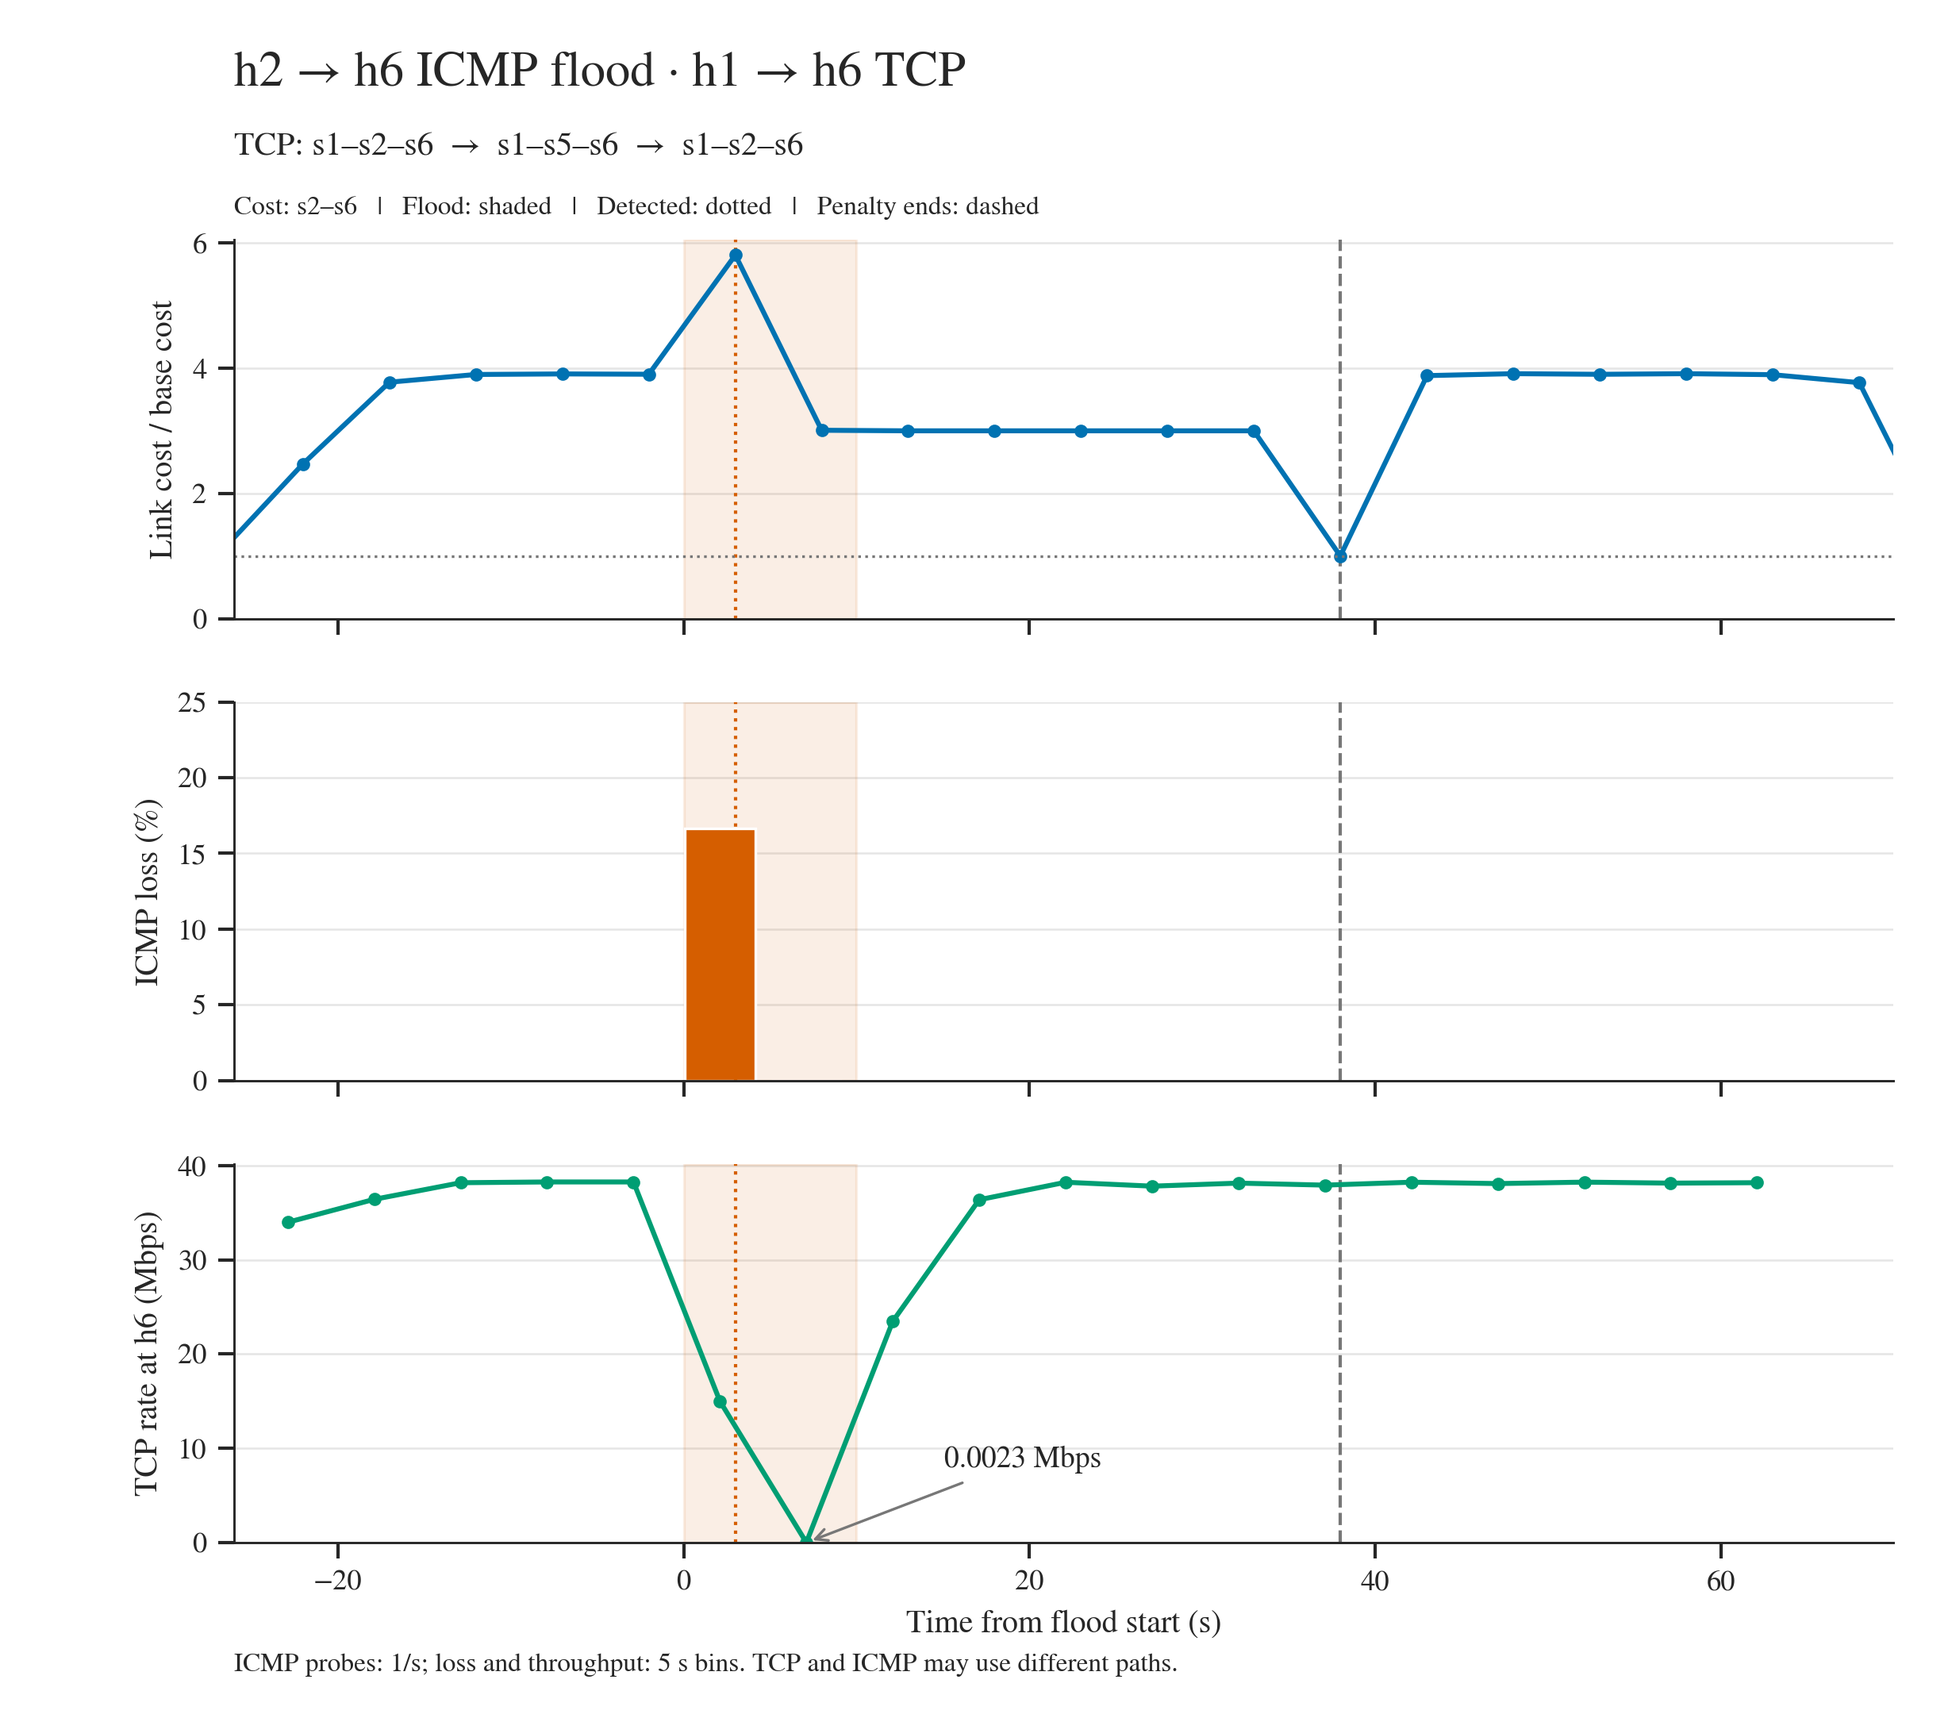
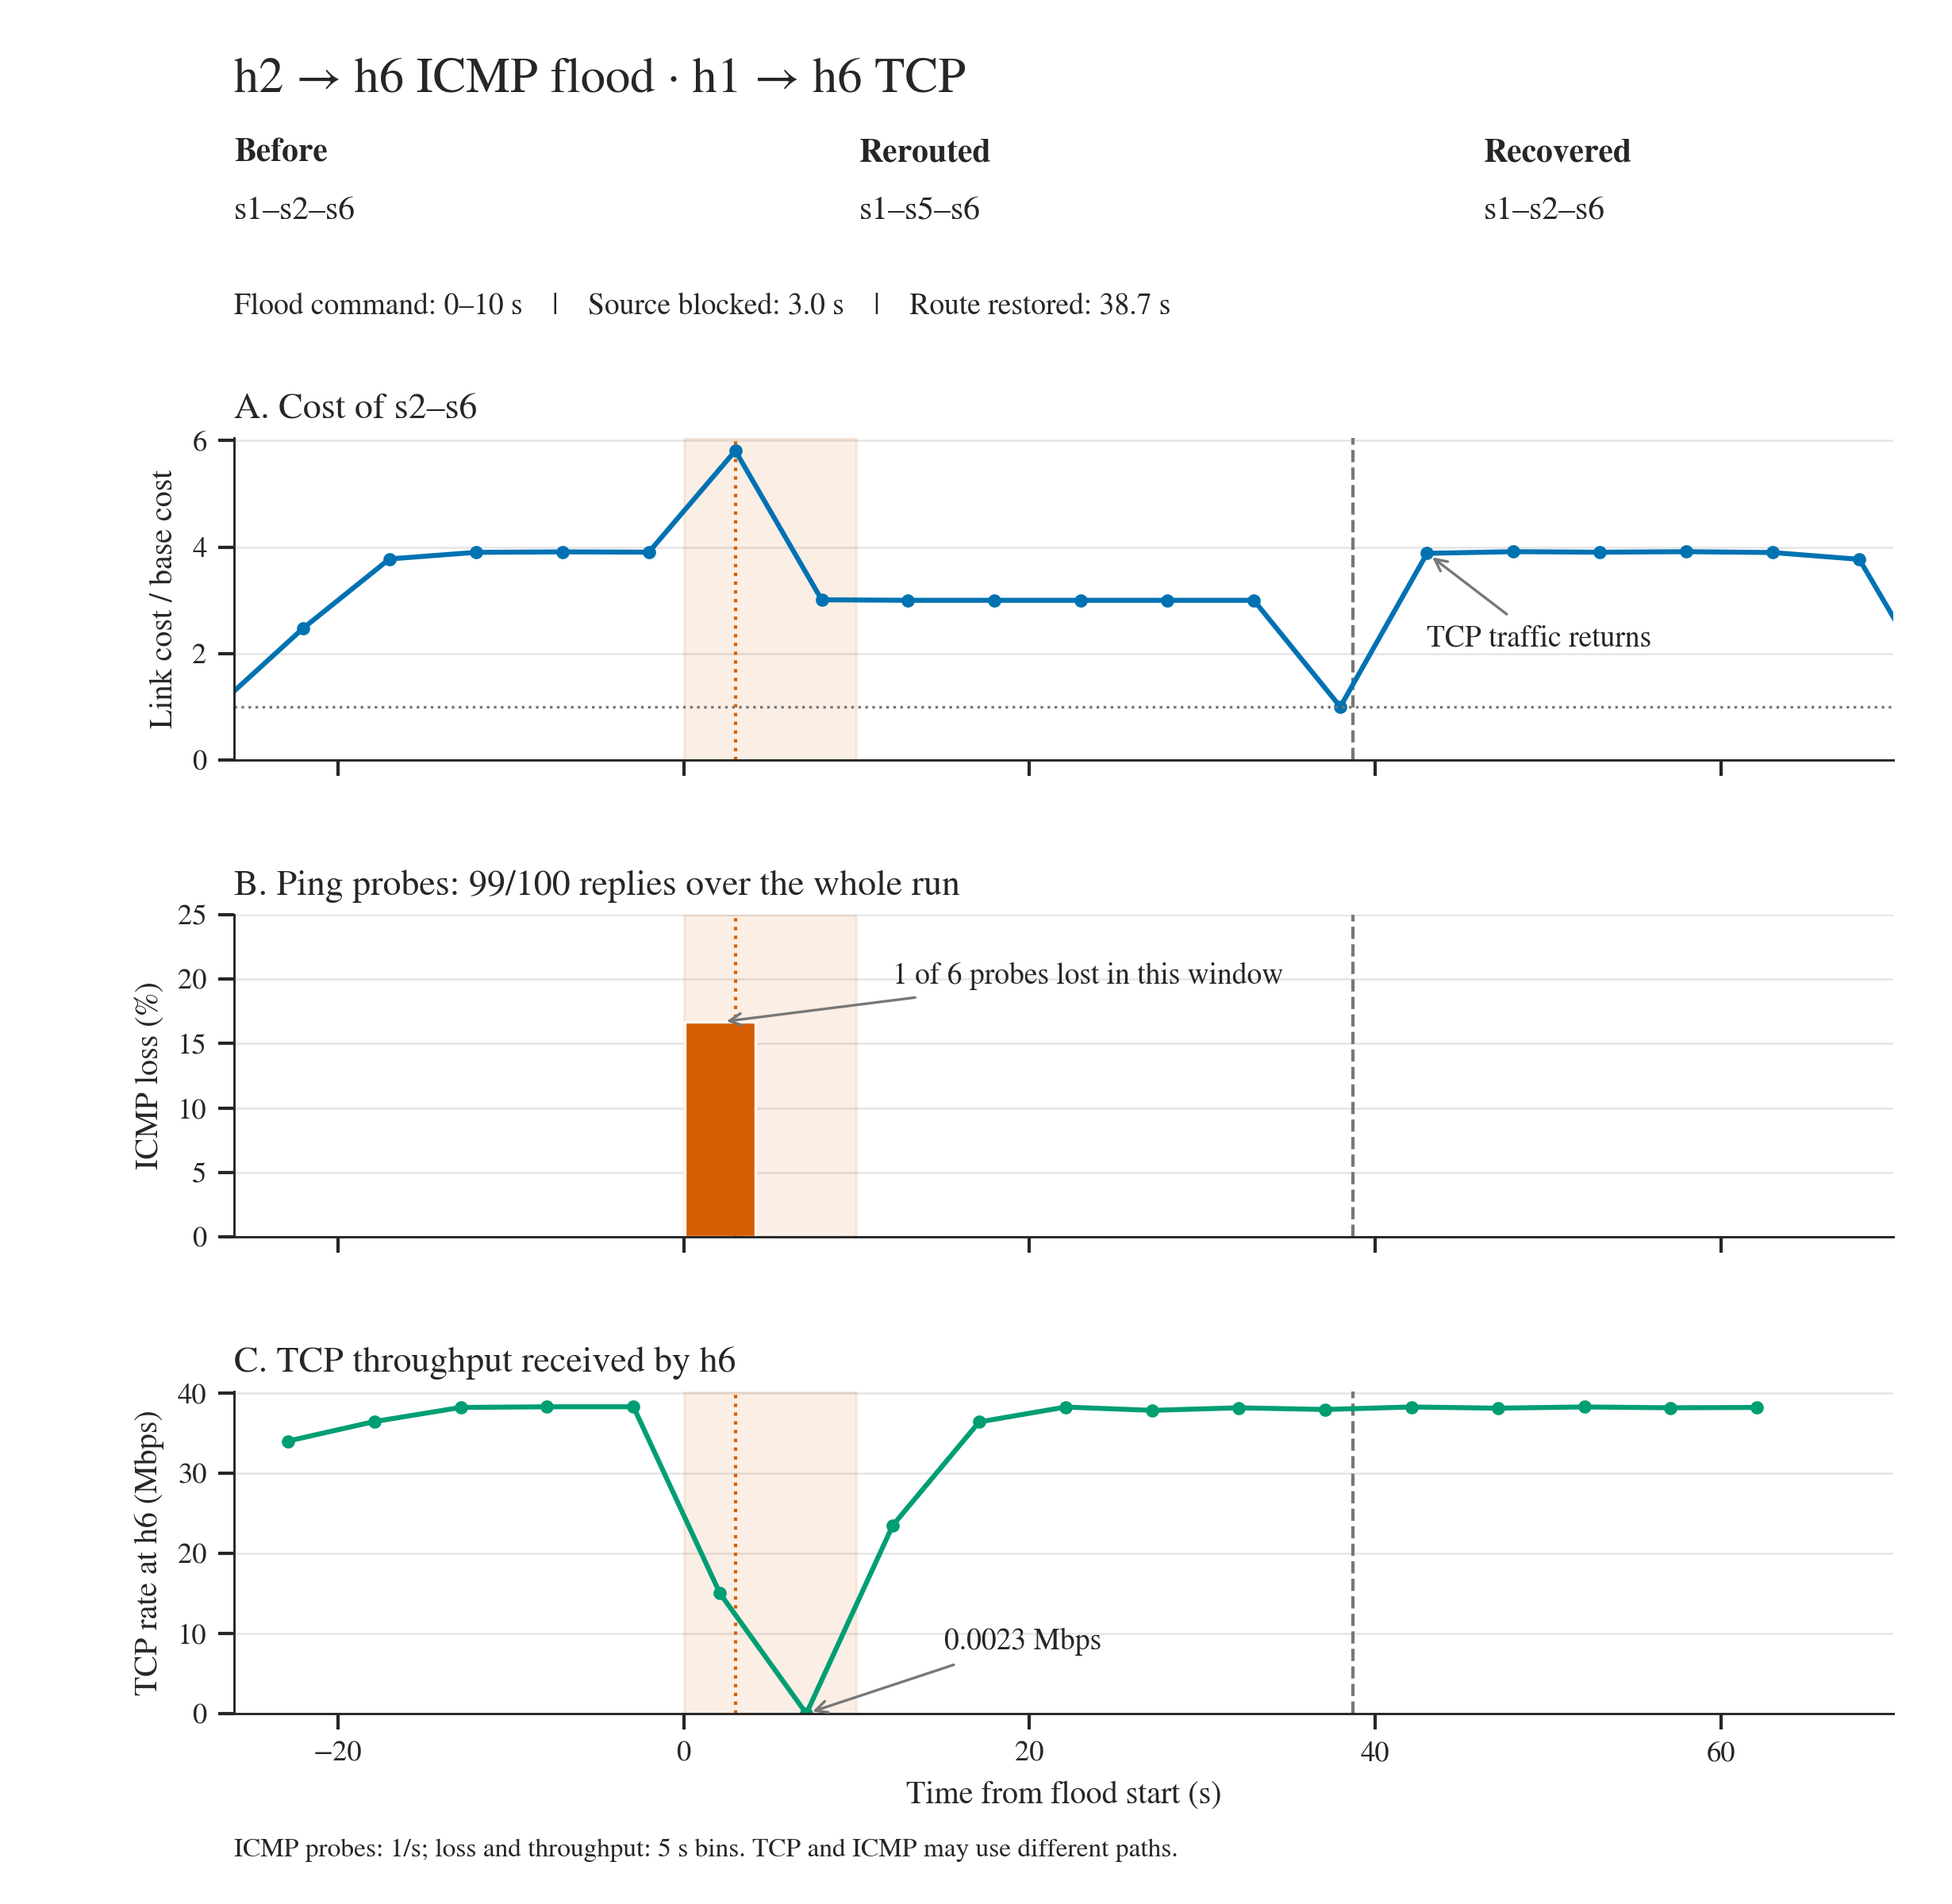
Clarify Qn4 figures and show terminal results

diff --git a/tools/plot_qn4.py b/tools/plot_qn4.py
@@ -136,38 +136,63 @@ def plot(folder, report, link, metrics):
     apply_style(plt)
     start = report['attack_start']
     end = report['penalty_end']-start
-    fig, axes = plt.subplots(3, 1, figsize=(8.2, 7.2), sharex=True)
-    fig.subplots_adjust(left=.12, right=.97, top=.86, bottom=.1, hspace=.22)
+    blocked = report['block_observed_seconds']
+    restored = next((row['time']-start for row in report['route_cost_samples']
+                     if row['time'] >= report['penalty_end'] and row['path'] == report['path_before']), None)
+    fig, axes = plt.subplots(3, 1, figsize=(8.2, 8.0), sharex=True)
+    fig.subplots_adjust(left=.12, right=.97, top=.77, bottom=.1, hspace=.48)
     source, destination = report['case'].split('-')
     fig.suptitle('%s → %s ICMP flood · h1 → h6 TCP' % (source,destination), x=.12, y=.97, ha='left', fontsize=15)
     before = '–'.join('s%d'%i for i in report['path_before'])
     alternatives = [path for path in report['phases']['during']['paths'] if path != report['path_before']]
     during = ' / '.join('–'.join('s%d'%i for i in path) for path in alternatives) or before
     after = ' / '.join('–'.join('s%d'%i for i in path) for path in report['phases']['after']['paths'])
-    fig.text(.12, .91, 'TCP: %s  →  %s  →  %s' % (before,during,after), fontsize=10)
-    fig.text(.12, .875, 'Cost: s%s–s%s   |   Flood: shaded   |   Detected: dotted   |   Penalty ends: dashed'
-             % (source[1:],destination[1:]), fontsize=8)
+    labels = ['Before', 'Rerouted', 'Recovered' if restored is not None else 'After']
+    for x, label, path in zip([.12, .44, .76], labels, [before, during, after]):
+        fig.text(x, .915, label, fontsize=10, weight='bold')
+        fig.text(x, .885, path, fontsize=10)
+    recovery = 'Route restored: %.1f s' % restored if restored is not None else 'Route not restored'
+    fig.text(.12, .835, 'Flood command: 0–10 s    |    Source blocked: %.1f s    |    %s'
+             % (blocked, recovery), fontsize=9)
     fig.text(.12, .025, 'ICMP probes: 1/s; loss and throughput: 5 s bins. TCP and ICMP may use different paths.', fontsize=8)
     for ax in axes:
         ax.axvspan(0, report['flood_seconds'], color=COLORS['block'], alpha=.1)
-        ax.axvline(report['detection_seconds'], color=COLORS['block'], linestyle=':', linewidth=1)
-        ax.axvline(end, color=COLORS['gray'], linestyle='--', linewidth=1)
+        ax.axvline(blocked, color=COLORS['block'], linestyle=':', linewidth=1)
+        if restored is not None:
+            ax.axvline(restored, color=COLORS['gray'], linestyle='--', linewidth=1)
         ax.grid(axis='y', color=COLORS['grid'], linewidth=.6)
     axes[0].plot([row['time']-start for row in link], [row['normalized_cost'] for row in link],
                  '-o', color=COLORS['rate'], markersize=3)
     axes[0].axhline(1, color=COLORS['gray'], linestyle=':', linewidth=.8)
     axes[0].set_ylabel('Link cost / base cost')
+    axes[0].set_title('A. Cost of s%s–s%s' % (source[1:], destination[1:]), loc='left', fontsize=11)
     axes[0].set_ylim(bottom=0)
+    returned = [row for row in link if row['time'] >= report['penalty_end']+5 and row['load_penalty'] > 1]
+    if returned:
+        row = returned[0]
+        axes[0].annotate('TCP traffic returns', xy=(row['time']-start, row['normalized_cost']),
+                         xytext=(end+5, max(1.5, row['normalized_cost']*.55)), fontsize=9,
+                         arrowprops={'arrowstyle': '->', 'color': COLORS['gray'], 'lw': .8})
     points = [row for row in metrics if row['loss_pct'] is not None]
     axes[1].bar([row['time_s'] for row in points], [row['loss_pct'] for row in points],
                 width=4.1, color=COLORS['block'])
     axes[1].set_ylabel('ICMP loss (%)')
+    axes[1].set_title('B. Ping probes: %d/%d replies over the whole run'
+                      % (report['ping']['received'], report['ping']['sent']), loc='left', fontsize=11)
     axes[1].set_ylim(0, max(25, max(row['loss_pct'] for row in points)*1.2))
     if all(row['loss_pct'] == 0 for row in points):
         axes[1].text(.02, .7, '0% observed loss', transform=axes[1].transAxes, fontsize=9)
+    else:
+        worst = max(points, key=lambda row: row['loss_pct'])
+        axes[1].annotate('%d of %d probes lost in this window'
+                         % (worst['ping_sent']-worst['ping_received'], worst['ping_sent']),
+                         xy=(worst['time_s'], worst['loss_pct']),
+                         xytext=(worst['time_s']+10, worst['loss_pct']+.12*axes[1].get_ylim()[1]), fontsize=9,
+                         arrowprops={'arrowstyle': '->', 'color': COLORS['gray'], 'lw': .8})
     axes[2].plot([row['time_s'] for row in metrics], [row['receiver_mbps'] for row in metrics],
                  '-o', color=COLORS['ema'], markersize=3)
     axes[2].set_ylabel('TCP rate at h6 (Mbps)')
+    axes[2].set_title('C. TCP throughput received by h6', loc='left', fontsize=11)
     axes[2].set_ylim(bottom=0)
     lowest = min(metrics, key=lambda row: row['receiver_mbps'])
     if lowest['receiver_mbps'] < .01:
@@ -188,5 +213,24 @@ if __name__ == '__main__':
     args = parser.parse_args()
     report, link, metrics = summarize(args.folder)
     plot(args.folder, report, link, metrics)
-    print('PASS' if report['passed'] else 'FAIL', report['case'], report['checks'])
+    tcp_paths = [report['path_before']]
+    if report['route_comparison'] is not None:
+        tcp_paths.append(report['route_comparison']['new_path'])
+    tcp_paths.append(report['path_after'])
+    lines = [('PASS' if report['passed'] else 'FAIL') + ' ' + report['case'],
+             'Source 10.0.0.%s: drop rules on %d/6 switches'
+             % (report['case'].split('-')[0][1:], len(report['drop_rule_switches'])),
+             'Flood check (%.2f s): drop +%d, forward +%d'
+             % (report['counter_window_s'], report['counter_delta']['drop'], report['counter_delta']['forward']),
+             'TCP paths: ' + ' / '.join('-'.join('s%d'%i for i in path) for path in tcp_paths),
+             'ICMP probes: %d/%d replies, %.1f%% loss'
+             % (report['ping']['received'], report['ping']['sent'], report['ping']['loss_pct']),
+             'Receiver Mbps (before / during / after): '
+             + ' / '.join('%.2f'%report['phases'][phase]['receiver_mbps'] for phase in ['before','during','after']),
+             'Lowest 5-second receiver rate: %.4f Mbps' % report['minimum_receiver_mbps']]
+    if report['route_comparison'] is not None:
+        lines.append('Sampled path cost: %.2f -> %.2f' % (report['route_comparison']['old_cost'], report['route_comparison']['new_cost']))
+    text = '\n'.join(lines) + '\n'
+    (args.folder / 'analysis-output.txt').write_text(text)
+    print(text, end='')
     raise SystemExit(0 if report['passed'] else 1)

diff --git a/README.md b/README.md
@@ -97,7 +97,8 @@ cost = base_cost + 30 × utilisation + 20 × anomaly
 Base costs follow the supplied `resilient_controller.py`; unspecified links
 have cost 10. Routing costs are separate from the physical TCLink delays.
 Utilisation is the larger directional TX rate divided by 40 Mbps, capped
-at 1. The anomaly penalty lasts 30 seconds; the source IP stays blocked.
+at 1. Anomaly penalties have a 30-second hold and are cleared at the next
+statistics update; the source IP stays blocked.
 
 On a fresh network, run this at `mininet>` to test the load term:
 
@@ -134,7 +135,8 @@ The three cases take about six minutes.
 
 Results go to `results/qn4/<run>/<case>/`:
 
-- `qn4.png`: normalized cost of the attacked link, ICMP probe loss and TCP receiver throughput.
+- `qn4.png`: paths before/during/after, attacked-link cost, probe loss and TCP throughput.
+- `analysis-output.txt`: the same short summary printed in the terminal.
 - `result.json`: paths, blocking checks and before/during/after measurements.
 - `metrics.csv`: throughput and loss in 5-second bins.
 - `route_costs.csv`: old and new path costs using the same logged cost snapshot.
@@ -161,12 +163,30 @@ The h2→h6 case lost one of 100 ping probes and had a 5-second interval at
 0.0023 Mbps; the same TCP connection recovered and finished. Off-path
 attacks can also move h1 because routing uses the current load costs.
 
+The saved h2→h6 run prints:
+
+```text
+PASS h2-h6
+Source 10.0.0.2: drop rules on 6/6 switches
+Flood check (2.18 s): drop +119701, forward +0
+TCP paths: s1-s2-s6 / s1-s5-s6 / s1-s2-s6
+ICMP probes: 99/100 replies, 1.0% loss
+Receiver Mbps (before / during / after): 37.77 / 29.00 / 38.17
+Lowest 5-second receiver rate: 0.0023 Mbps
+Sampled path cost: 89.86 -> 20.00
+```
+
+[Controller, drop-rule and ping output](docs/qn4-output.md) shows the original
+log excerpts behind this summary.
+
 ![h2 to h6 rerouting](docs/images/qn4-h2-h6.png)
 
 Other cases: [h2→h3](docs/images/qn4-h2-h3.png),
 [h5→h6](docs/images/qn4-h5-h6.png). [Saved measurements](examples/qn4/phases.csv).
 
-Cost can rise again after recovery when TCP returns to the original link.
+Shading marks the flood command. The dotted line marks blocking; the dashed
+line marks the first observed return to the original TCP route. Cost can
+rise again when TCP returns to that link.
 The loss bars show individual 5-second windows, not whole-run loss.
 
 ## Stop or repeat

diff --git a/docs/qn4-output.md b/docs/qn4-output.md
@@ -1,0 +1,61 @@
+# Qn4 command-line results
+
+Selected output from the saved h2→h6 experiment. The attacking source was
+h2; h1→h6 TCP traffic and ICMP probes ran throughout the test.
+
+## Detection and blocking
+
+From `controller.log`:
+
+```text
+Q2 ANOMALY: IP=10.0.0.2 rate=34466.60 pps baseline=0.74 pps
+Q3: Anomaly penalty applied to links [(2, 6)] for 30 seconds
+Q2 BLOCKED: IP=10.0.0.2 switches=6
+Q3: Anomaly penalty expired on s2-s6
+```
+
+The source IP is blocked on six switches. The 30-second penalty affects
+routing costs; the IP block remains after that penalty is cleared.
+
+The matching rule on s2, showing its match and action fields:
+
+```text
+priority=5000,ip,nw_src=10.0.0.2 actions=drop
+```
+
+## Connectivity
+
+The h1→h6 ping summary:
+
+```text
+100 packets transmitted, 99 received, 1% packet loss, time 100327ms
+```
+
+The attacking h2 host tried to ping h6 after blocking:
+
+```text
+3 packets transmitted, 0 received, 100% packet loss, time 2076ms
+```
+
+## Run summary
+
+The analysis prints this summary and saves it as `analysis-output.txt` in
+the result directory:
+
+```text
+PASS h2-h6
+Source 10.0.0.2: drop rules on 6/6 switches
+Flood check (2.18 s): drop +119701, forward +0
+TCP paths: s1-s2-s6 / s1-s5-s6 / s1-s2-s6
+ICMP probes: 99/100 replies, 1.0% loss
+Receiver Mbps (before / during / after): 37.77 / 29.00 / 38.17
+Lowest 5-second receiver rate: 0.0023 Mbps
+Sampled path cost: 89.86 -> 20.00
+```
+
+`drop +119701, forward +0` is the measured counter change while the flood
+was still running. Receiver rates are phase averages. The 0.0023 Mbps value
+is a separate 5-second interval, so the temporary drop remains visible.
+
+The figure and these excerpts use recorded data. Fresh runs will have
+different rates, counts and timings.
